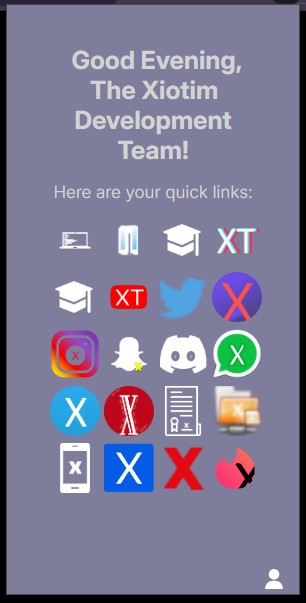
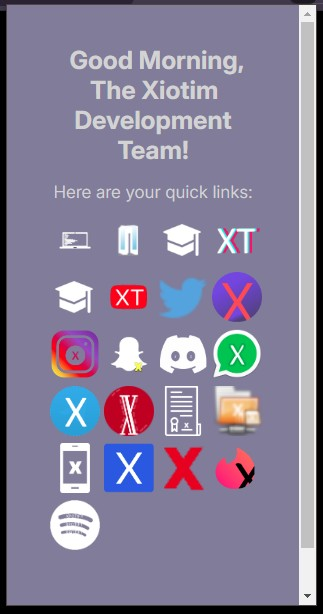
Updated xLinks
- Updated xLinks to include Xpotify, a new project (maybe coning out tomorrow)

diff --git a/Unpacked/xLinks/index.html b/Unpacked/xLinks/index.html
@@ -176,10 +176,16 @@
 									<th>
 									<a href="https://l-xdt.github.io/xflix/" target="_blank"><img src="https://i.imgur.com/le6WCCt.png"></a>
 									</th>
-         <th>
+        <th>
            <a href="http://l-xdt.github.io/xinder/" target="_blank"><img src="https://i.imgur.com/srht9BE.png"></a>
        </th>
+    </tr>
+       <tr>
+       <th>
+        <a href="http://l-xdt.github.io/xpotify/" target="_blank"><img src="https://i.imgur.com/cCNacDB.png"></a>
+    </th>
 </tr>
+
         </table>
     </div>
     <div class="change_user">
